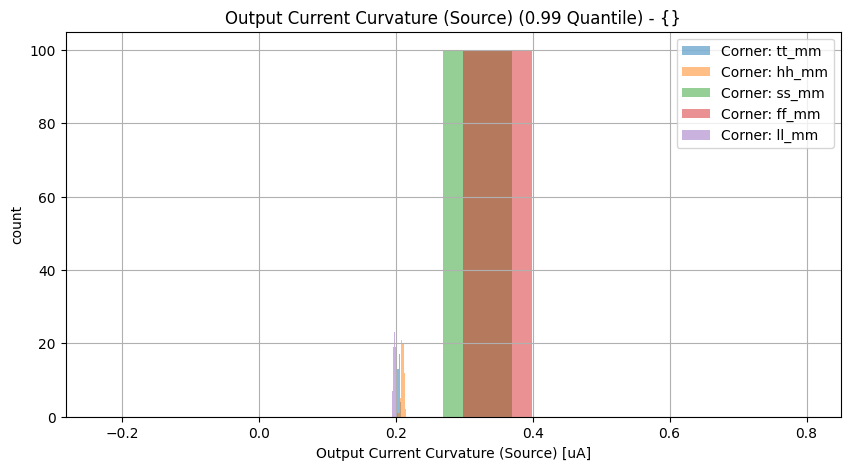
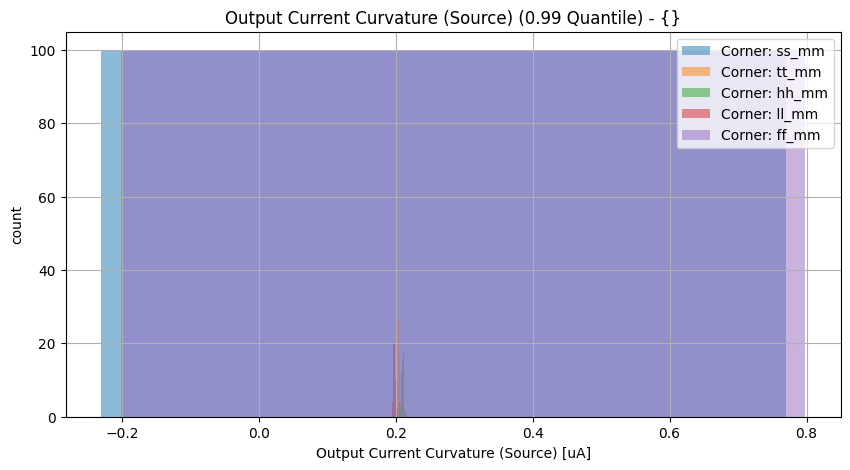
Jenkins update

diff --git a/vthref/vthref/Readme.md b/vthref/vthref/Readme.md
@@ -1,4 +1,4 @@
-21.11.2022, 22:51:55
+22.11.2022, 07:38:04
 
 # Vth Current Reference
 
@@ -30,8 +30,8 @@
 
 | Parameter | Min (Spec. / Sim.) |      | Max (Sim. / Spec.) | Unit | Checks (total/pass/fail/NaN) | Comment |
 | :-------- | -----------------: | :--: | :----------------- | :--- | :--------------------------- | ------- |
-| Output Current Curvature (Sink) | 0.0 / 0.192 | <svg height="20" width="150"><polyline points="3.0,3,3.0,17,147.0,17,147.0,3" style="fill:none;stroke:gray;stroke-width:1" /><polyline points="75.0,10.0,75.0,17" style="fill:none;stroke:gray;stroke-width:1" /><polyline points="30.6379776,10.0,46.319332800000005,10.0" style="stroke:green;stroke-width:2" /><circle cx="30.6379776" cy="10.0" r="3" style="fill:green;stroke:green;stroke-width:0" /><circle cx="46.319332800000005" cy="10.0" r="3" style="fill:green;stroke:green;stroke-width:0" /></svg> | 0.301 / 1.0 | uA | 500/100.0%/0.0%/0.0% |  |
-| Output Current Curvature (Source) | 0.0 / 0.192 | <svg height="20" width="150"><polyline points="3.0,3,3.0,17,147.0,17,147.0,3" style="fill:none;stroke:gray;stroke-width:1" /><polyline points="75.0,10.0,75.0,17" style="fill:none;stroke:gray;stroke-width:1" /><polyline points="30.7132608,10.0,45.9679728,10.0" style="stroke:green;stroke-width:2" /><circle cx="30.7132608" cy="10.0" r="3" style="fill:green;stroke:green;stroke-width:0" /><circle cx="45.9679728" cy="10.0" r="3" style="fill:green;stroke:green;stroke-width:0" /></svg> | 0.298 / 1.0 | uA | 500/100.0%/0.0%/0.0% |  |
+| Output Current Curvature (Sink) | 0.0 / 0.192 | <svg height="20" width="150"><polyline points="3.0,3,3.0,17,147.0,17,147.0,3" style="fill:none;stroke:gray;stroke-width:1" /><polyline points="75.0,10.0,75.0,17" style="fill:none;stroke:gray;stroke-width:1" /><polyline points="30.608385600000002,10.0,46.319332800000005,10.0" style="stroke:green;stroke-width:2" /><circle cx="30.608385600000002" cy="10.0" r="3" style="fill:green;stroke:green;stroke-width:0" /><circle cx="46.319332800000005" cy="10.0" r="3" style="fill:green;stroke:green;stroke-width:0" /></svg> | 0.301 / 1.0 | uA | 500/100.0%/0.0%/0.0% |  |
+| Output Current Curvature (Source) | 0.0 / 0.195 | <svg height="20" width="150"><polyline points="3.0,3,3.0,17,147.0,17,147.0,3" style="fill:none;stroke:gray;stroke-width:1" /><polyline points="75.0,10.0,75.0,17" style="fill:none;stroke:gray;stroke-width:1" /><polyline points="31.031500800000003,10.0,45.9679728,10.0" style="stroke:green;stroke-width:2" /><circle cx="31.031500800000003" cy="10.0" r="3" style="fill:green;stroke:green;stroke-width:0" /><circle cx="45.9679728" cy="10.0" r="3" style="fill:green;stroke:green;stroke-width:0" /></svg> | 0.298 / 1.0 | uA | 500/100.0%/0.0%/0.0% |  |
 
 <br>
 
@@ -50,10 +50,19 @@
 
 | Parameter | Min (Spec. / Sim.) |      | Max (Sim. / Spec.) | Unit | Checks (total/pass/fail/NaN) | Comment |
 | :-------- | -----------------: | :--: | :----------------- | :--- | :--------------------------- | ------- |
-| Output Current Curvature (Sink) | 0.0 / 0.193 | <svg height="20" width="150"><polyline points="3.0,3,3.0,17,147.0,17,147.0,3" style="fill:none;stroke:gray;stroke-width:1" /><polyline points="75.0,10.0,75.0,17" style="fill:none;stroke:gray;stroke-width:1" /><polyline points="30.8180784,10.0,44.8781232,10.0" style="stroke:green;stroke-width:2" /><circle cx="30.8180784" cy="10.0" r="3" style="fill:green;stroke:green;stroke-width:0" /><circle cx="44.8781232" cy="10.0" r="3" style="fill:green;stroke:green;stroke-width:0" /></svg> | 0.291 / 1.0 | uA | 500/100.0%/0.0%/0.0% |  |
-| Output Current Curvature (Source) | 0.0 / 0.197 | <svg height="20" width="150"><polyline points="3.0,3,3.0,17,147.0,17,147.0,3" style="fill:none;stroke:gray;stroke-width:1" /><polyline points="75.0,10.0,75.0,17" style="fill:none;stroke:gray;stroke-width:1" /><polyline points="31.437710399999997,10.0,46.9778448,10.0" style="stroke:green;stroke-width:2" /><circle cx="31.437710399999997" cy="10.0" r="3" style="fill:green;stroke:green;stroke-width:0" /><circle cx="46.9778448" cy="10.0" r="3" style="fill:green;stroke:green;stroke-width:0" /></svg> | 0.305 / 1.0 | uA | 500/100.0%/0.0%/0.0% |  |
+| Output Current Curvature (Sink) | 0.0 / 0.193 | <svg height="20" width="150"><polyline points="3.0,3,3.0,17,36.037767674746846,17,36.037767674746846,3" style="fill:none;stroke:gray;stroke-width:1" /><polyline points="19.518883837373423,10.0,19.518883837373423,17" style="fill:none;stroke:gray;stroke-width:1" /><polyline points="9.383653279640843,10.0,147.0,10.0" style="stroke:red;stroke-width:2" /><circle cx="9.383653279640843" cy="10.0" r="3" style="fill:red;stroke:red;stroke-width:0" /><circle cx="147.0" cy="10.0" r="3" style="fill:red;stroke:red;stroke-width:0" /></svg> | 4.359 / 1.0 | uA | 500/99.6%/0.4%/0.0% |  |
+| Output Current Curvature (Source) | 0.0 / 0.198 | <svg height="20" width="150"><polyline points="3.0,3,3.0,17,36.558196554552,17,36.558196554552,3" style="fill:none;stroke:gray;stroke-width:1" /><polyline points="19.779098277276,10.0,19.779098277276,17" style="fill:none;stroke:gray;stroke-width:1" /><polyline points="9.640529492411304,10.0,147.0,10.0" style="stroke:red;stroke-width:2" /><circle cx="9.640529492411304" cy="10.0" r="3" style="fill:red;stroke:red;stroke-width:0" /><circle cx="147.0" cy="10.0" r="3" style="fill:red;stroke:red;stroke-width:0" /></svg> | 4.291 / 1.0 | uA | 500/99.6%/0.4%/0.0% |  |
 
-<br>
+<details><summary>Show specification violation details...</summary>
+
+> **FAIL:** Specification violation for parameter "Output Current Curvature (Sink)":<br>
+> **FAIL:** group:ll_mm file:work/sim/vthref/vthref_tb.4_dcext/batch_2/ll_mm/dc.csv Index:9 <br>
+> **FAIL:** group:ll_mm file:work/sim/vthref/vthref_tb.4_dcext/batch_4/ll_mm/dc.csv Index:16 <br>
+
+> **FAIL:** Specification violation for parameter "Output Current Curvature (Source)":<br>
+> **FAIL:** group:ll_mm file:work/sim/vthref/vthref_tb.4_dcext/batch_2/ll_mm/dc.csv Index:9 <br>
+> **FAIL:** group:ll_mm file:work/sim/vthref/vthref_tb.4_dcext/batch_4/ll_mm/dc.csv Index:16 <br>
+</details><br>
 
 
 # PERFORMANCE CHARACTERISTICS

diff --git a/vthref/vthref/specReport.md b/vthref/vthref/specReport.md
@@ -13,8 +13,8 @@
 
 | Parameter | Min (Spec. / Sim.) |      | Max (Sim. / Spec.) | Unit | Checks (total/pass/fail/NaN) | Comment |
 | :-------- | -----------------: | :--: | :----------------- | :--- | :--------------------------- | ------- |
-| Output Current Curvature (Sink) | 0.0 / 0.192 | <svg height="20" width="150"><polyline points="3.0,3,3.0,17,147.0,17,147.0,3" style="fill:none;stroke:gray;stroke-width:1" /><polyline points="75.0,10.0,75.0,17" style="fill:none;stroke:gray;stroke-width:1" /><polyline points="30.6379776,10.0,46.319332800000005,10.0" style="stroke:green;stroke-width:2" /><circle cx="30.6379776" cy="10.0" r="3" style="fill:green;stroke:green;stroke-width:0" /><circle cx="46.319332800000005" cy="10.0" r="3" style="fill:green;stroke:green;stroke-width:0" /></svg> | 0.301 / 1.0 | uA | 500/100.0%/0.0%/0.0% |  |
-| Output Current Curvature (Source) | 0.0 / 0.192 | <svg height="20" width="150"><polyline points="3.0,3,3.0,17,147.0,17,147.0,3" style="fill:none;stroke:gray;stroke-width:1" /><polyline points="75.0,10.0,75.0,17" style="fill:none;stroke:gray;stroke-width:1" /><polyline points="30.7132608,10.0,45.9679728,10.0" style="stroke:green;stroke-width:2" /><circle cx="30.7132608" cy="10.0" r="3" style="fill:green;stroke:green;stroke-width:0" /><circle cx="45.9679728" cy="10.0" r="3" style="fill:green;stroke:green;stroke-width:0" /></svg> | 0.298 / 1.0 | uA | 500/100.0%/0.0%/0.0% |  |
+| Output Current Curvature (Sink) | 0.0 / 0.192 | <svg height="20" width="150"><polyline points="3.0,3,3.0,17,147.0,17,147.0,3" style="fill:none;stroke:gray;stroke-width:1" /><polyline points="75.0,10.0,75.0,17" style="fill:none;stroke:gray;stroke-width:1" /><polyline points="30.608385600000002,10.0,46.319332800000005,10.0" style="stroke:green;stroke-width:2" /><circle cx="30.608385600000002" cy="10.0" r="3" style="fill:green;stroke:green;stroke-width:0" /><circle cx="46.319332800000005" cy="10.0" r="3" style="fill:green;stroke:green;stroke-width:0" /></svg> | 0.301 / 1.0 | uA | 500/100.0%/0.0%/0.0% |  |
+| Output Current Curvature (Source) | 0.0 / 0.195 | <svg height="20" width="150"><polyline points="3.0,3,3.0,17,147.0,17,147.0,3" style="fill:none;stroke:gray;stroke-width:1" /><polyline points="75.0,10.0,75.0,17" style="fill:none;stroke:gray;stroke-width:1" /><polyline points="31.031500800000003,10.0,45.9679728,10.0" style="stroke:green;stroke-width:2" /><circle cx="31.031500800000003" cy="10.0" r="3" style="fill:green;stroke:green;stroke-width:0" /><circle cx="45.9679728" cy="10.0" r="3" style="fill:green;stroke:green;stroke-width:0" /></svg> | 0.298 / 1.0 | uA | 500/100.0%/0.0%/0.0% |  |
 
 <br>
 
@@ -33,8 +33,17 @@
 
 | Parameter | Min (Spec. / Sim.) |      | Max (Sim. / Spec.) | Unit | Checks (total/pass/fail/NaN) | Comment |
 | :-------- | -----------------: | :--: | :----------------- | :--- | :--------------------------- | ------- |
-| Output Current Curvature (Sink) | 0.0 / 0.193 | <svg height="20" width="150"><polyline points="3.0,3,3.0,17,147.0,17,147.0,3" style="fill:none;stroke:gray;stroke-width:1" /><polyline points="75.0,10.0,75.0,17" style="fill:none;stroke:gray;stroke-width:1" /><polyline points="30.8180784,10.0,44.8781232,10.0" style="stroke:green;stroke-width:2" /><circle cx="30.8180784" cy="10.0" r="3" style="fill:green;stroke:green;stroke-width:0" /><circle cx="44.8781232" cy="10.0" r="3" style="fill:green;stroke:green;stroke-width:0" /></svg> | 0.291 / 1.0 | uA | 500/100.0%/0.0%/0.0% |  |
-| Output Current Curvature (Source) | 0.0 / 0.197 | <svg height="20" width="150"><polyline points="3.0,3,3.0,17,147.0,17,147.0,3" style="fill:none;stroke:gray;stroke-width:1" /><polyline points="75.0,10.0,75.0,17" style="fill:none;stroke:gray;stroke-width:1" /><polyline points="31.437710399999997,10.0,46.9778448,10.0" style="stroke:green;stroke-width:2" /><circle cx="31.437710399999997" cy="10.0" r="3" style="fill:green;stroke:green;stroke-width:0" /><circle cx="46.9778448" cy="10.0" r="3" style="fill:green;stroke:green;stroke-width:0" /></svg> | 0.305 / 1.0 | uA | 500/100.0%/0.0%/0.0% |  |
+| Output Current Curvature (Sink) | 0.0 / 0.193 | <svg height="20" width="150"><polyline points="3.0,3,3.0,17,36.037767674746846,17,36.037767674746846,3" style="fill:none;stroke:gray;stroke-width:1" /><polyline points="19.518883837373423,10.0,19.518883837373423,17" style="fill:none;stroke:gray;stroke-width:1" /><polyline points="9.383653279640843,10.0,147.0,10.0" style="stroke:red;stroke-width:2" /><circle cx="9.383653279640843" cy="10.0" r="3" style="fill:red;stroke:red;stroke-width:0" /><circle cx="147.0" cy="10.0" r="3" style="fill:red;stroke:red;stroke-width:0" /></svg> | 4.359 / 1.0 | uA | 500/99.6%/0.4%/0.0% |  |
+| Output Current Curvature (Source) | 0.0 / 0.198 | <svg height="20" width="150"><polyline points="3.0,3,3.0,17,36.558196554552,17,36.558196554552,3" style="fill:none;stroke:gray;stroke-width:1" /><polyline points="19.779098277276,10.0,19.779098277276,17" style="fill:none;stroke:gray;stroke-width:1" /><polyline points="9.640529492411304,10.0,147.0,10.0" style="stroke:red;stroke-width:2" /><circle cx="9.640529492411304" cy="10.0" r="3" style="fill:red;stroke:red;stroke-width:0" /><circle cx="147.0" cy="10.0" r="3" style="fill:red;stroke:red;stroke-width:0" /></svg> | 4.291 / 1.0 | uA | 500/99.6%/0.4%/0.0% |  |
 
-<br>
+<details><summary>Show specification violation details...</summary>
+
+> **FAIL:** Specification violation for parameter "Output Current Curvature (Sink)":<br>
+> **FAIL:** group:ll_mm file:work/sim/vthref/vthref_tb.4_dcext/batch_2/ll_mm/dc.csv Index:9 <br>
+> **FAIL:** group:ll_mm file:work/sim/vthref/vthref_tb.4_dcext/batch_4/ll_mm/dc.csv Index:16 <br>
+
+> **FAIL:** Specification violation for parameter "Output Current Curvature (Source)":<br>
+> **FAIL:** group:ll_mm file:work/sim/vthref/vthref_tb.4_dcext/batch_2/ll_mm/dc.csv Index:9 <br>
+> **FAIL:** group:ll_mm file:work/sim/vthref/vthref_tb.4_dcext/batch_4/ll_mm/dc.csv Index:16 <br>
+</details><br>
 

diff --git a/bmbg/bmbgota/Readme.md b/bmbg/bmbgota/Readme.md
@@ -1,4 +1,4 @@
-21.11.2022, 22:51:55
+22.11.2022, 07:38:04
 
 # Beta-Multiplier Bandgap OTA
 

diff --git a/bmbg/bmbg/Readme.md b/bmbg/bmbg/Readme.md
@@ -1,4 +1,4 @@
-21.11.2022, 22:51:55
+22.11.2022, 07:38:04
 
 # Beta-Multiplier Bandgap
 

diff --git a/riosc/riosc/Readme.md b/riosc/riosc/Readme.md
@@ -1,4 +1,4 @@
-21.11.2022, 22:51:55
+22.11.2022, 07:38:04
 
 # Ring Oscillator
 

diff --git a/ldo/ldo/Readme.md b/ldo/ldo/Readme.md
@@ -1,4 +1,4 @@
-21.11.2022, 22:51:55
+22.11.2022, 07:38:04
 
 # 1.8 V LDO
 

diff --git a/ldo/ldoota/Readme.md b/ldo/ldoota/Readme.md
@@ -1,4 +1,4 @@
-21.11.2022, 22:51:55
+22.11.2022, 07:38:04
 
 # LDO OP
 
